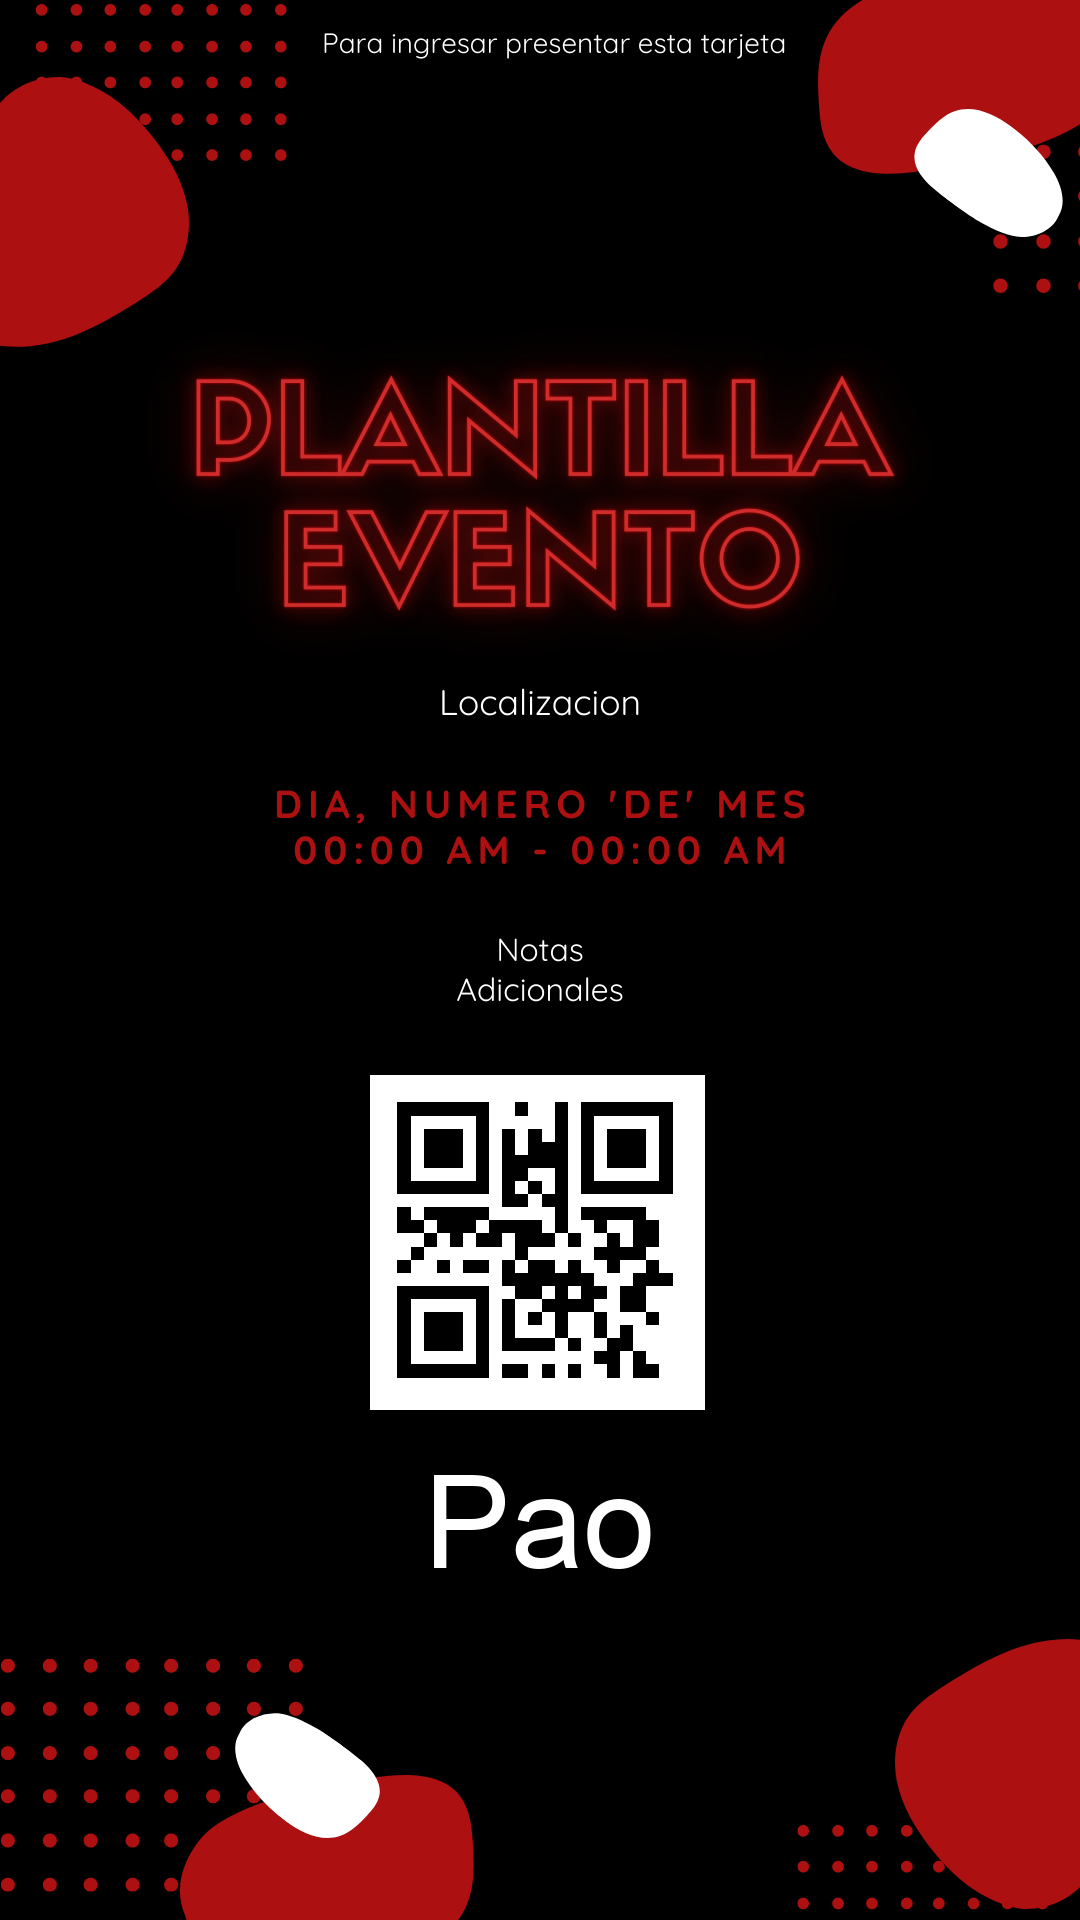
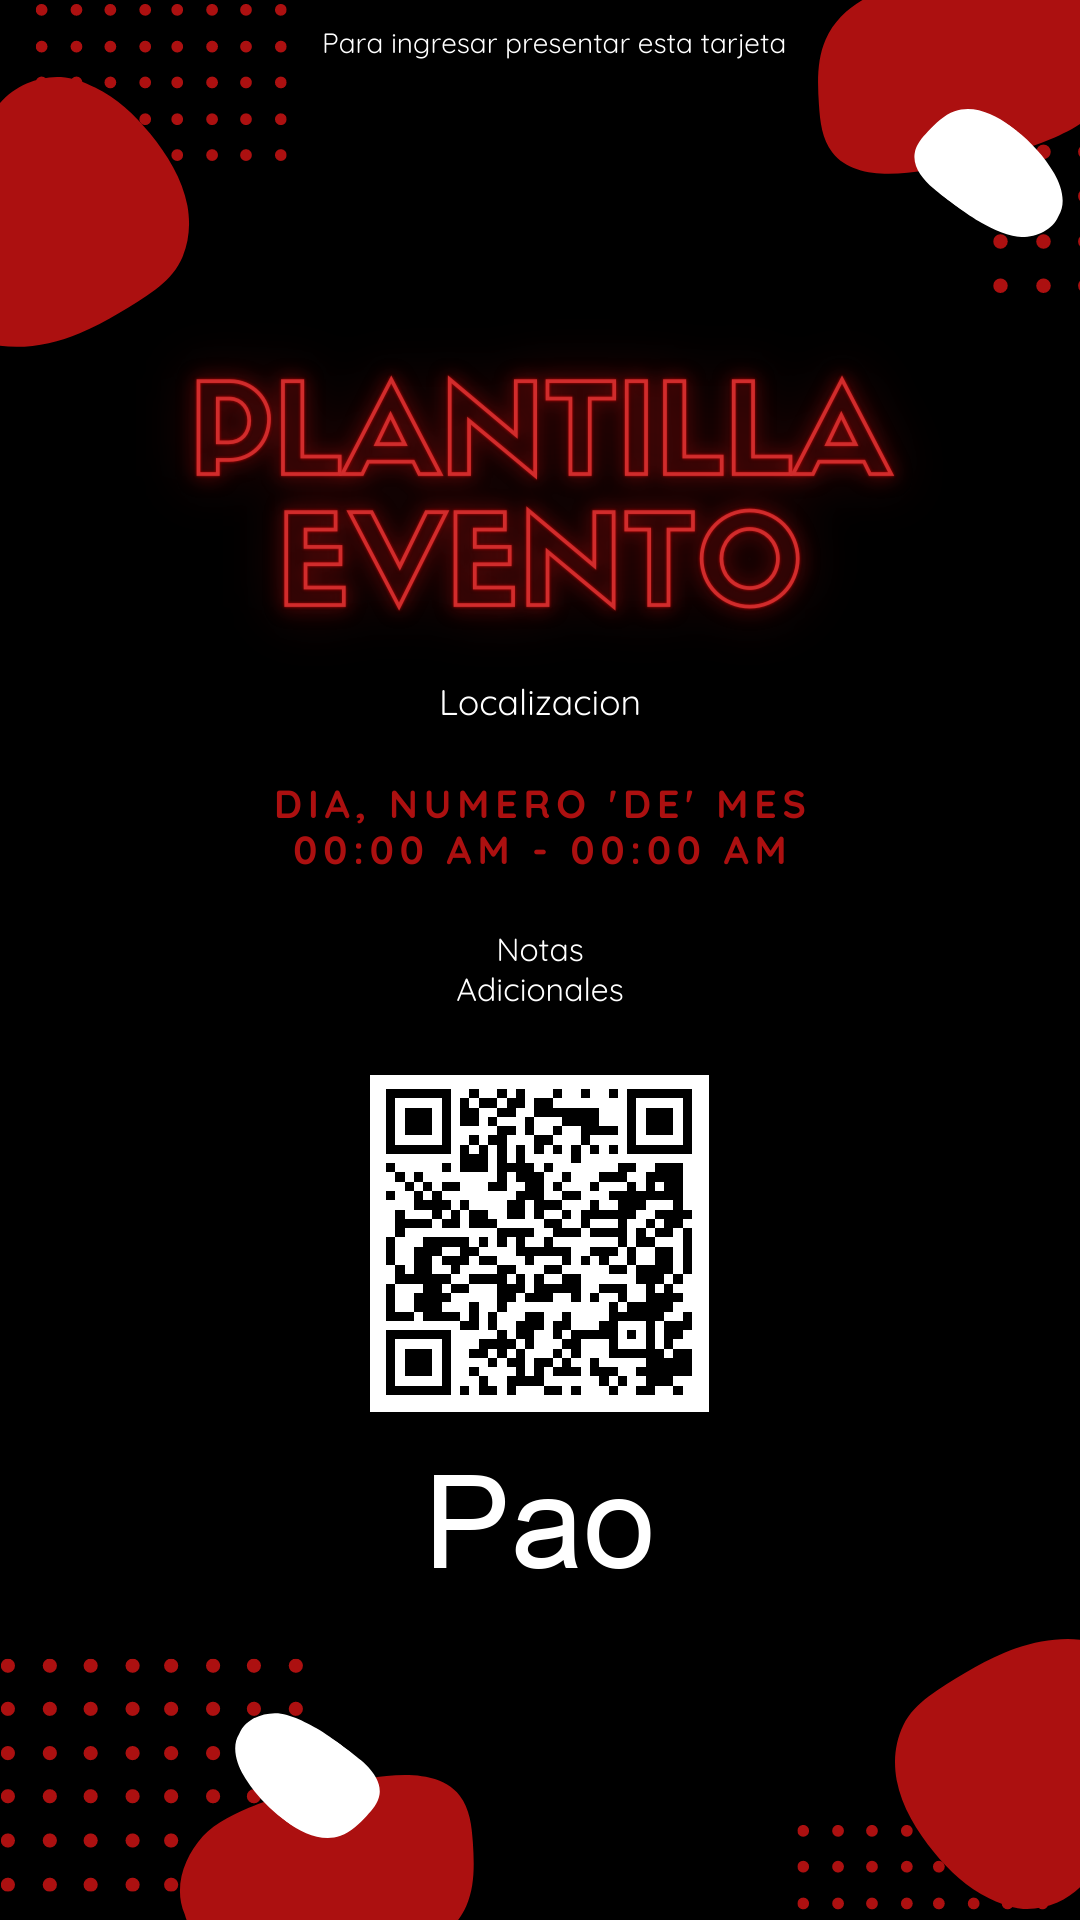
Qr Code Centrado

Changed region(s): [[0.3361, 0.5625, 0.6722, 0.75]]

diff --git a/eventos/imageGenerator.py b/eventos/imageGenerator.py
@@ -9,7 +9,7 @@ from config.settings import BASE_DIR
 def genImage(nombre,id,host,num):
     logo = qrcode.make('http://' + host + '/invitado/' + num)
     logo = logo.resize((380, 380))
-    logo = logo.crop((25, 25, 360, 360))
+    logo = logo.crop((21, 23, 360, 360))
 
     img = Image.open(BASE_DIR + '/static/' + "flyer.png")
     # Escribe el Nombre
